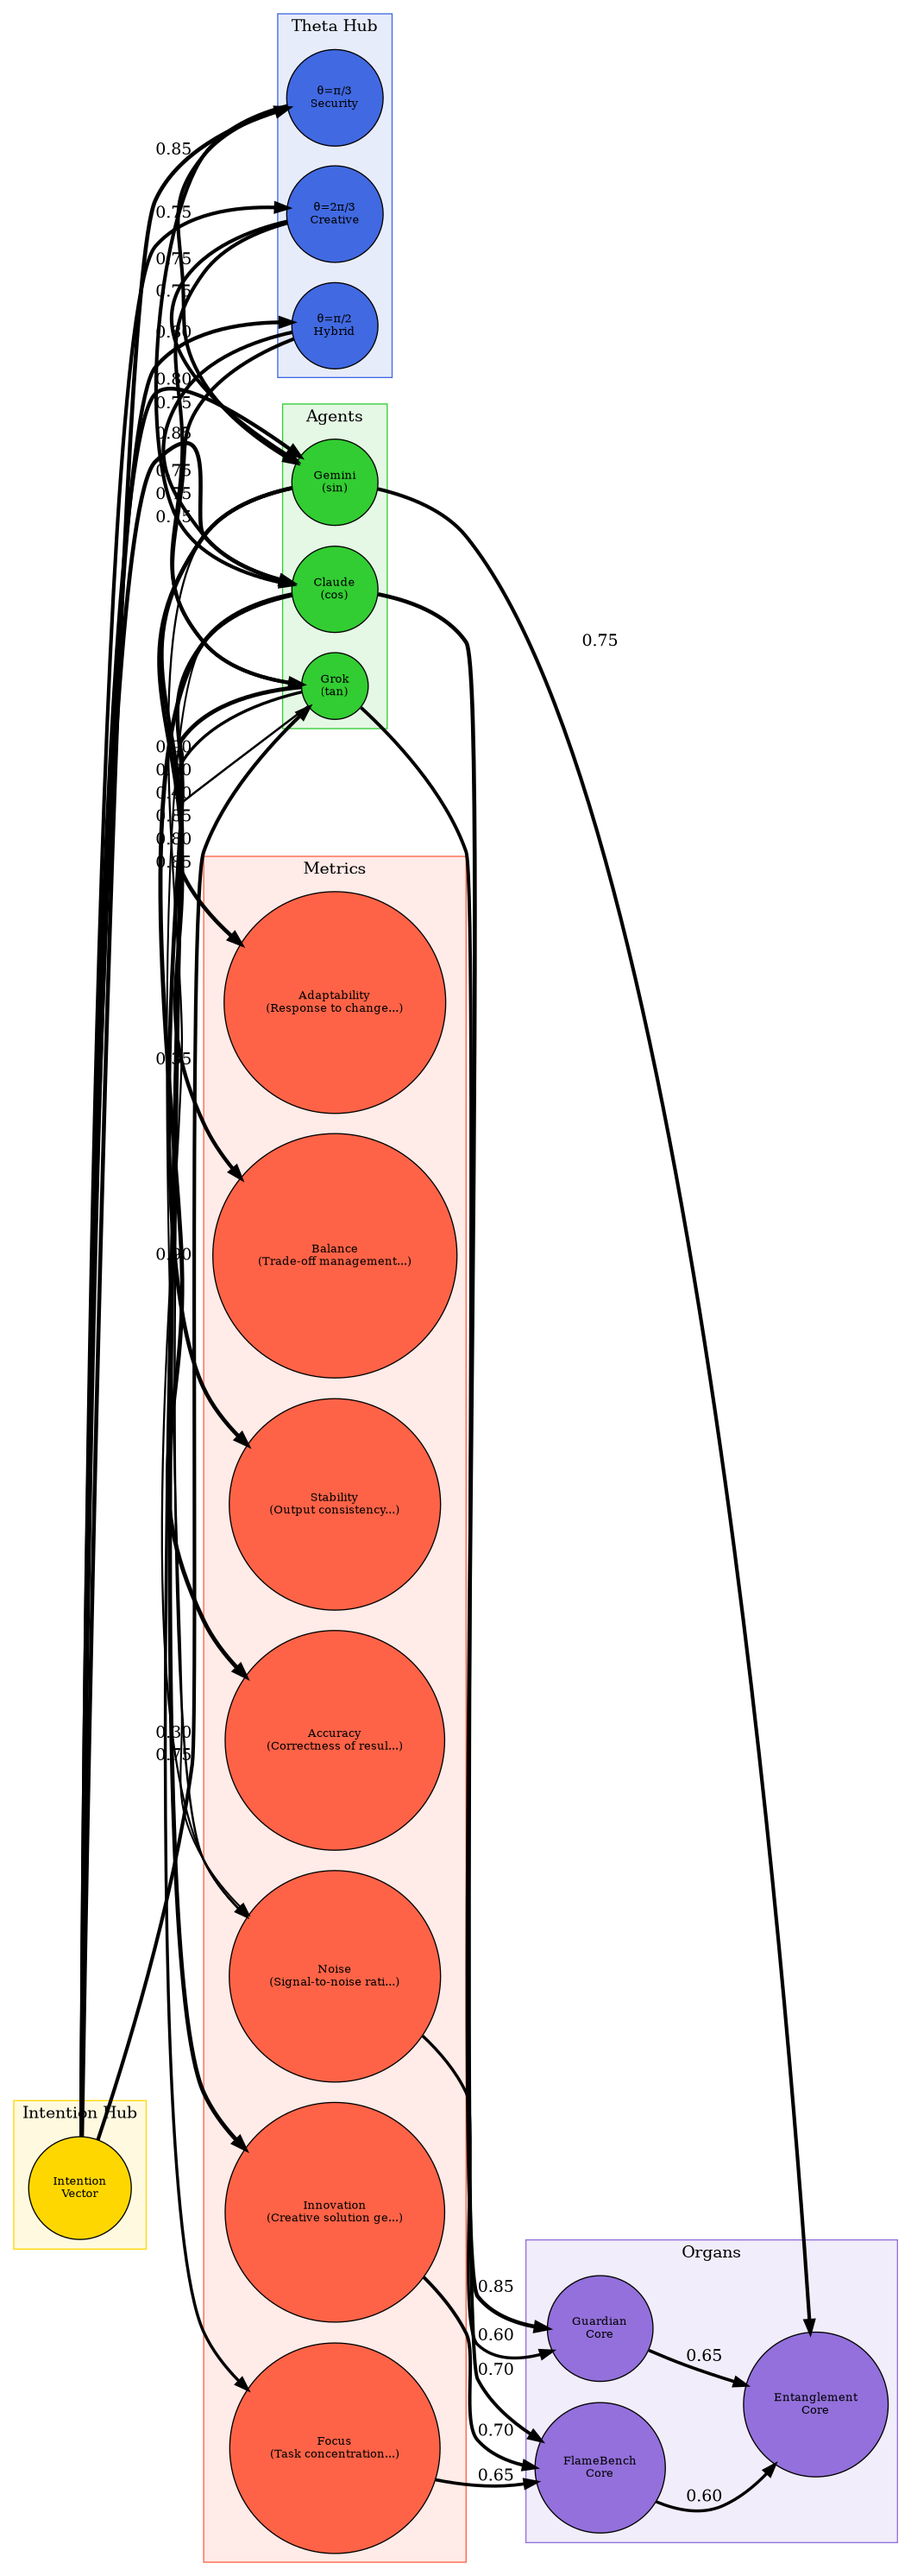
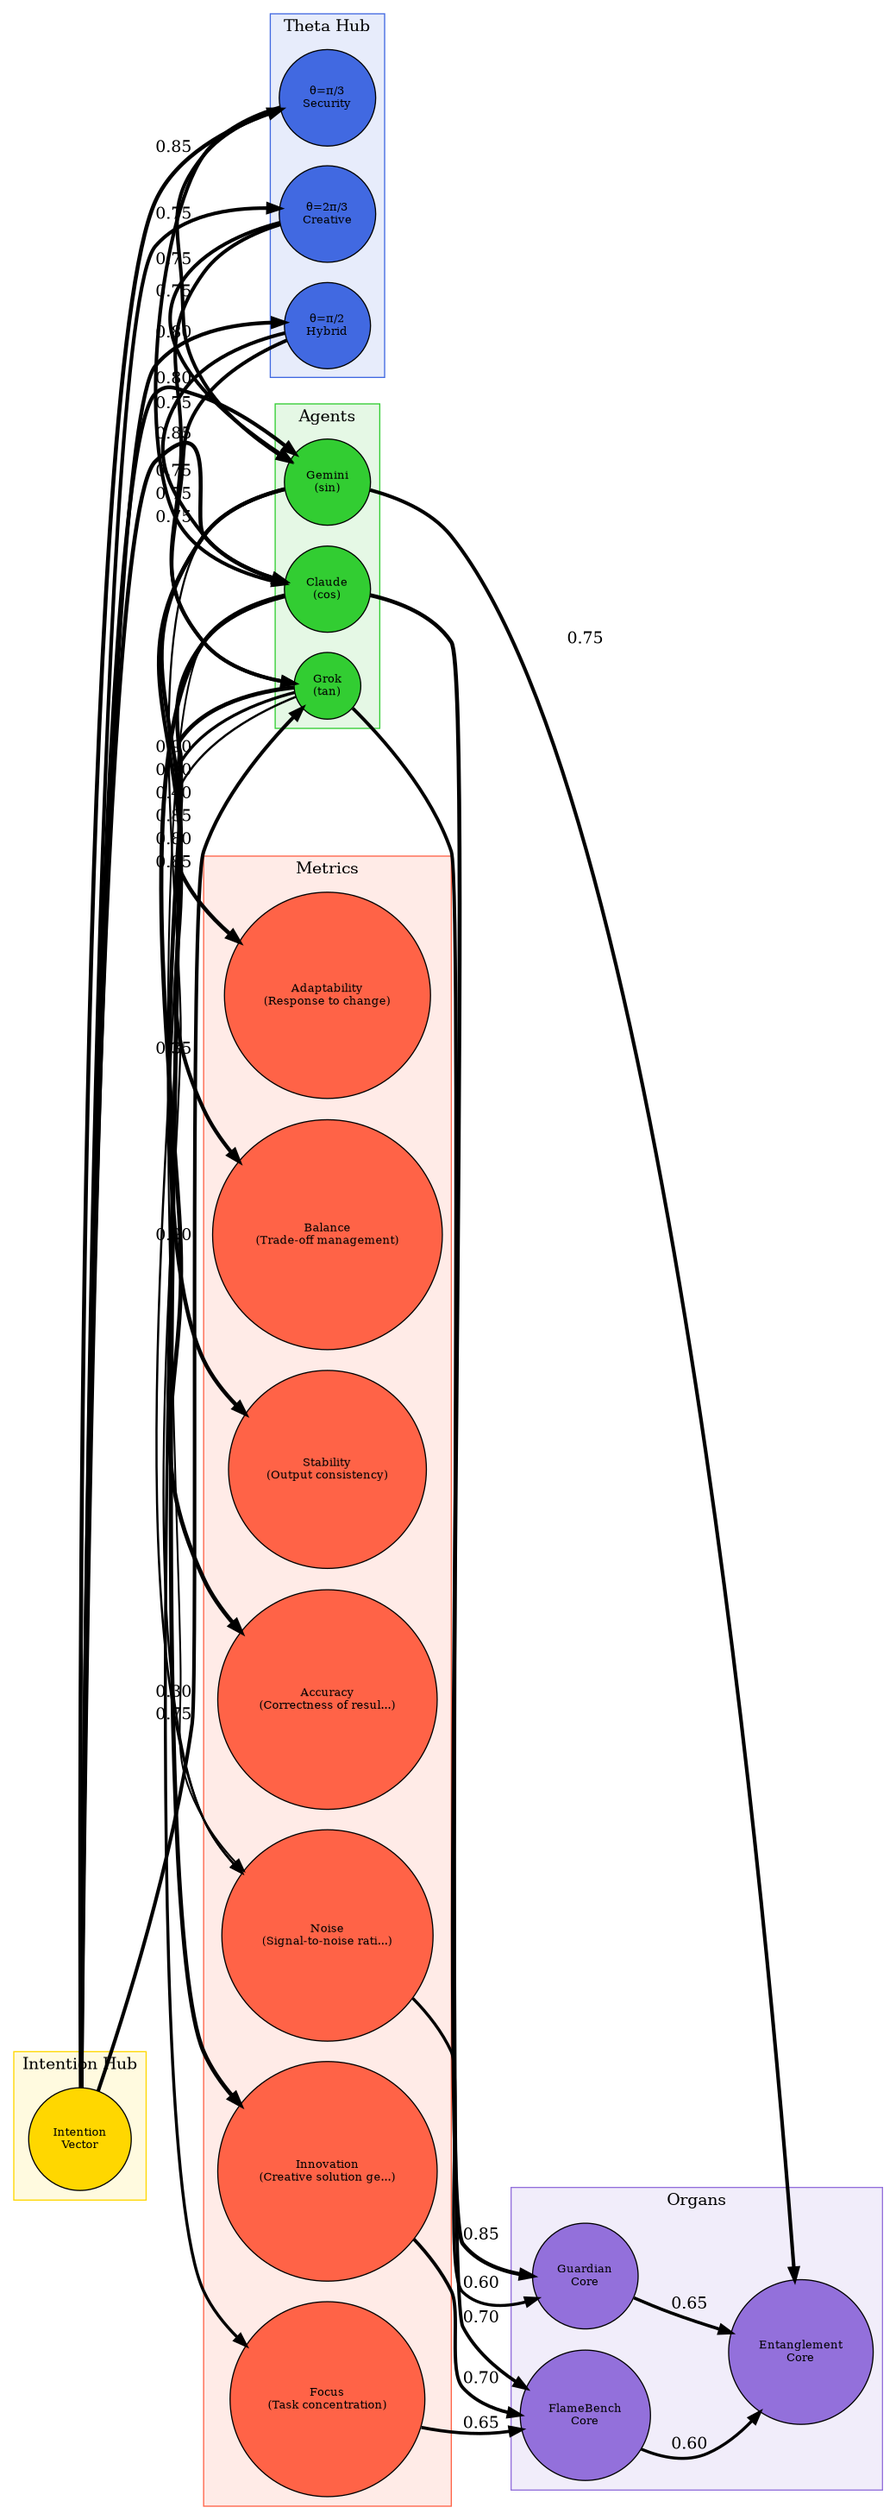
Code quality improvements: add constants, safe string handling

diff --git a/src/tools/neurograph_builder.py b/src/tools/neurograph_builder.py
@@ -18,6 +18,13 @@ import argparse
 import os
 import sys
 
+# Configuration constants
+LABEL_MAX_LENGTH = 20
+DOT_FILLCOLOR_OPACITY = "20"  # Hex opacity value (20 = ~12%)
+MIN_PENWIDTH = 0.5
+PENWIDTH_SCALE = 3.5
+
+
 
 def load_configs(trig_yaml='config/trig6.yaml', neuro_yaml='config/trig6_neurograph.yaml'):
     """Load and parse YAML configuration files."""
@@ -105,9 +112,16 @@ def build_dynamic_graph(trig_config, neuro_config):
         for metric, m_conf in conf.get('metrics', {}).items():
             metric_id = metric
             if not node_exists(metric_id):
+                # Safely handle description with fallback
+                description = m_conf.get('description', '')
+                if len(description) > LABEL_MAX_LENGTH:
+                    label_desc = description[:LABEL_MAX_LENGTH] + "..."
+                else:
+                    label_desc = description
+                
                 nodes.append({
                     'id': metric_id,
-                    'label': f"{metric.capitalize()}\n({m_conf['description'][:20]}...)",
+                    'label': f"{metric.capitalize()}\n({label_desc})",
                     'group': 'metrics'
                 })
             
@@ -162,7 +176,7 @@ def emit_dot(graph_data, output_file):
         dot += f'    label="{group.replace("_", " ").title()}";\n'
         dot += f'    color="{color}";\n'
         dot += f'    style=filled;\n'
-        dot += f'    fillcolor="{color}20";\n'  # 20% opacity
+        dot += f'    fillcolor="{color}{DOT_FILLCOLOR_OPACITY}";\n'
         for node in [n for n in graph_data['nodes'] if n.get('group') == group]:
             label = node['label'].replace('\n', '\\n')
             dot += f'    {node["id"]} [label="{label}", fillcolor="{color}"];\n'
@@ -172,7 +186,7 @@ def emit_dot(graph_data, output_file):
     for edge in graph_data['edges']:
         weight = edge.get('weight', 0.5)
         # Vary edge thickness based on weight
-        penwidth = 0.5 + (weight * 3.5)  # Range: 0.5 to 4.0
+        penwidth = MIN_PENWIDTH + (weight * PENWIDTH_SCALE)
         dot += f'  {edge["from"]} -> {edge["to"]} '
         dot += f'[weight={weight:.2f}, penwidth={penwidth:.2f}, '
         dot += f'label="{weight:.2f}"];\n'
